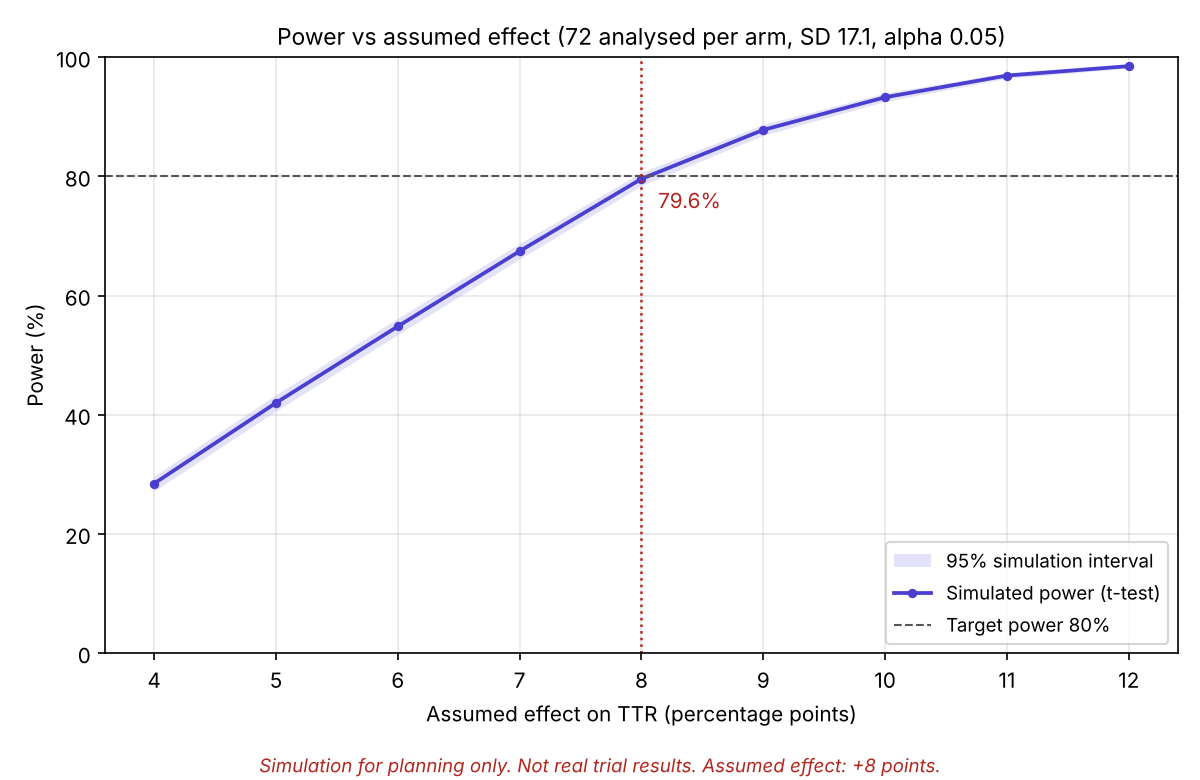
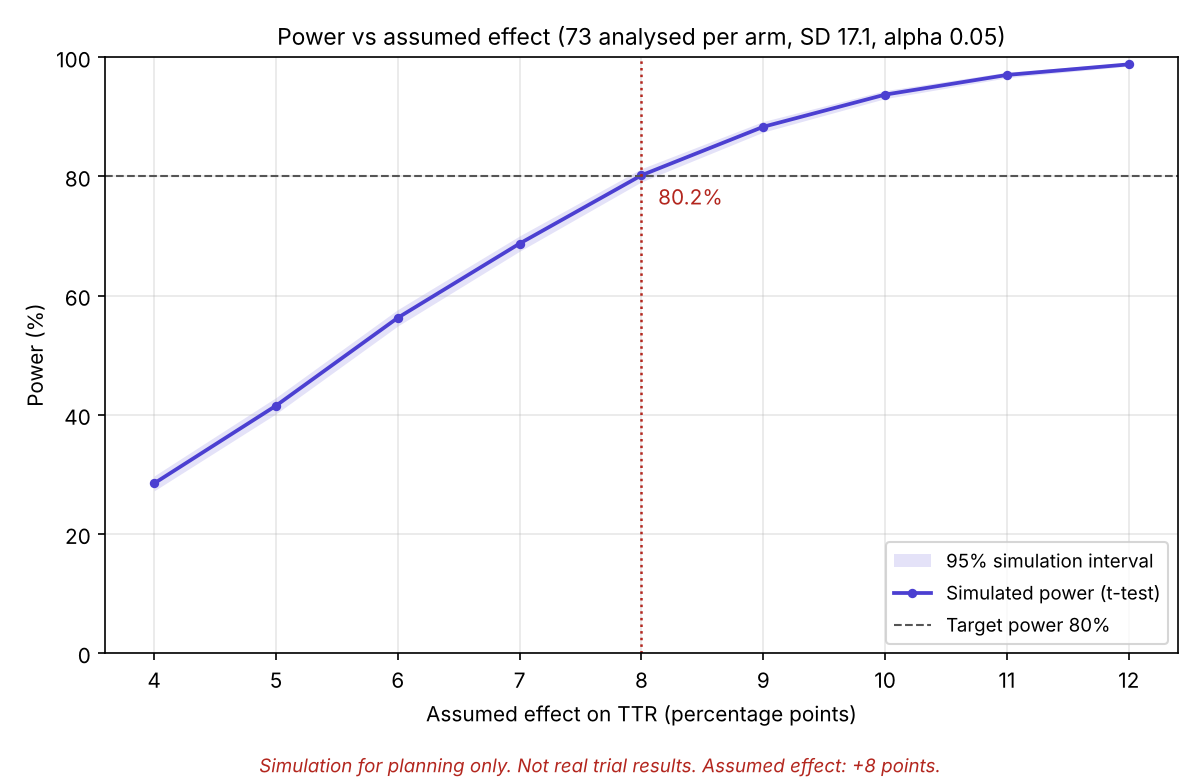
trial-sim: charts at 73 per arm
Sample-size chart marks 73 per arm (80.2%); effect chart uses 73 per arm.
results.txt lists the effect table at 73 (chart) and 72 (README sentence).
All 72-per-arm numbers unchanged. README chart notes updated.

Claude-Session: https://claude.ai/code/session_01Q3ktR4jPrNzXCAf3GPVT9z

diff --git a/trial-sim/power_sim.py b/trial-sim/power_sim.py
@@ -40,7 +40,7 @@ REFERENCE = 'Lam ASM, Lee IMH, Mak SKS, Yan BPY, Lee VWY. Warfarin control in Ho
 # ---- Simulation settings (not trial inputs) ----
 N_SIMS = 5000            # simulated trials per setting
 SEED = 2026              # fixed, so every run gives the same results
-SIZES = list(range(20, 141, 4))                    # per arm, chart 1 (includes 72)
+SIZES = sorted(set(range(20, 141, 4)) | {N_RECOMMENDED})  # per arm, chart 1 (includes 72 and 73)
 EFFECTS = [float(e) for e in range(4, 13)]         # +4 to +12 points, chart 2
 
 NOTE = 'Simulation for planning only. Not real trial results. Assumed effect: +8 points.'
@@ -145,19 +145,20 @@ def main():
     res = [simulate_power(n, EFFECT) for n in SIZES]
     chart(SIZES, [r[0] for r in res], [r[1] for r in res], 'Patients analysed per arm',
           'Power vs sample size per arm (TTR, assumed effect +8 points, SD 17.1, alpha 0.05)',
-          N_FORMULA, os.path.join(HERE, 'power_vs_sample_size.png'), x_ticks=list(range(20, 141, 20)))
+          N_RECOMMENDED, os.path.join(HERE, 'power_vs_sample_size.png'), x_ticks=list(range(20, 141, 20)))
     lines.append('Power vs sample size per arm (assumed effect +8 points):')
     lines += ['  %3d per arm: %5.1f%%' % (n, r[0] * 100) for n, r in zip(SIZES, res)]
     first = next((n for n, r in zip(SIZES, res) if r[0] >= TARGET_POWER), None)
     lines += ['  smallest size on this grid with simulated power >= 80%%: %s per arm' % first, '']
 
-    # 4. Power vs assumed effect (at 72 per arm)
-    res = [simulate_power(N_FORMULA, e) for e in EFFECTS]
+    # 4. Power vs assumed effect (chart at 73 per arm; 72 listed too, for comparison)
+    res = [simulate_power(N_RECOMMENDED, e) for e in EFFECTS]
+    res72 = [simulate_power(N_FORMULA, e) for e in EFFECTS]
     chart(EFFECTS, [r[0] for r in res], [r[1] for r in res], 'Assumed effect on TTR (percentage points)',
-          'Power vs assumed effect (72 analysed per arm, SD 17.1, alpha 0.05)',
+          'Power vs assumed effect (73 analysed per arm, SD 17.1, alpha 0.05)',
           EFFECT, os.path.join(HERE, 'power_vs_effect.png'), x_ticks=EFFECTS)
-    lines.append('Power vs assumed effect (72 per arm):')
-    lines += ['  +%2g points: %5.1f%%' % (e, r[0] * 100) for e, r in zip(EFFECTS, res)]
+    lines.append('Power vs assumed effect:     73 per arm (chart)   72 per arm')
+    lines += ['  +%2g points:               %5.1f%%               %5.1f%%' % (e, r[0] * 100, q[0] * 100) for e, r, q in zip(EFFECTS, res, res72)]
 
     lines += ['', 'Seed %d, %d simulated trials per setting.' % (SEED, N_SIMS)]
     with open(os.path.join(HERE, 'results.txt'), 'w') as f:

diff --git a/trial-sim/README.md b/trial-sim/README.md
@@ -24,7 +24,7 @@ no patients took part. It is not part of the app: the app does not load or link 
 Reference: Lam ASM, Lee IMH, Mak SKS, Yan BPY, Lee VWY. Warfarin control in Hong Kong clinical practice: a single-centre observational study. *Hong Kong Med J.* 2020;26(4):294–303. <https://www.hkmj.org/node/10340>
 
 Simulation settings (not trial inputs): 5,000 simulated trials per setting, fixed random seed 2026,
-sample sizes 20 to 140 per arm in steps of 4, assumed effects +4 to +12 points in steps of 1.
+sample sizes 20 to 140 per arm in steps of 4 plus 73, assumed effects +4 to +12 points in steps of 1.
 
 ## Formula check
 
@@ -71,8 +71,9 @@ This assumes an 8-point improvement in TTR; if the true effect is smaller, a lar
 
 Charts:
 
-- `power_vs_sample_size.png`: power vs patients analysed per arm, at the assumed +8 points.
-- `power_vs_effect.png`: power vs assumed effect (+4 to +12 points), at 72 per arm.
+- `power_vs_sample_size.png`: power vs patients analysed per arm, at the assumed +8 points; marker at 73 per arm.
+- `power_vs_effect.png`: power vs assumed effect (+4 to +12 points), at 73 per arm (recommended).
+  `results.txt` lists the same effects at both 73 and 72 per arm.
 
 ## Rerun it
 
